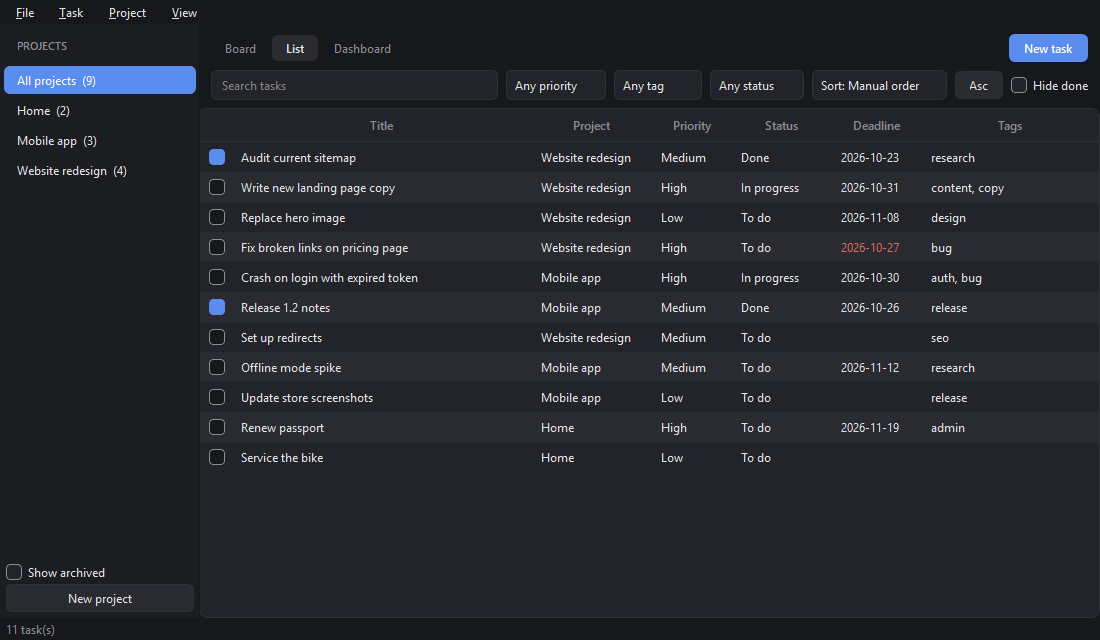
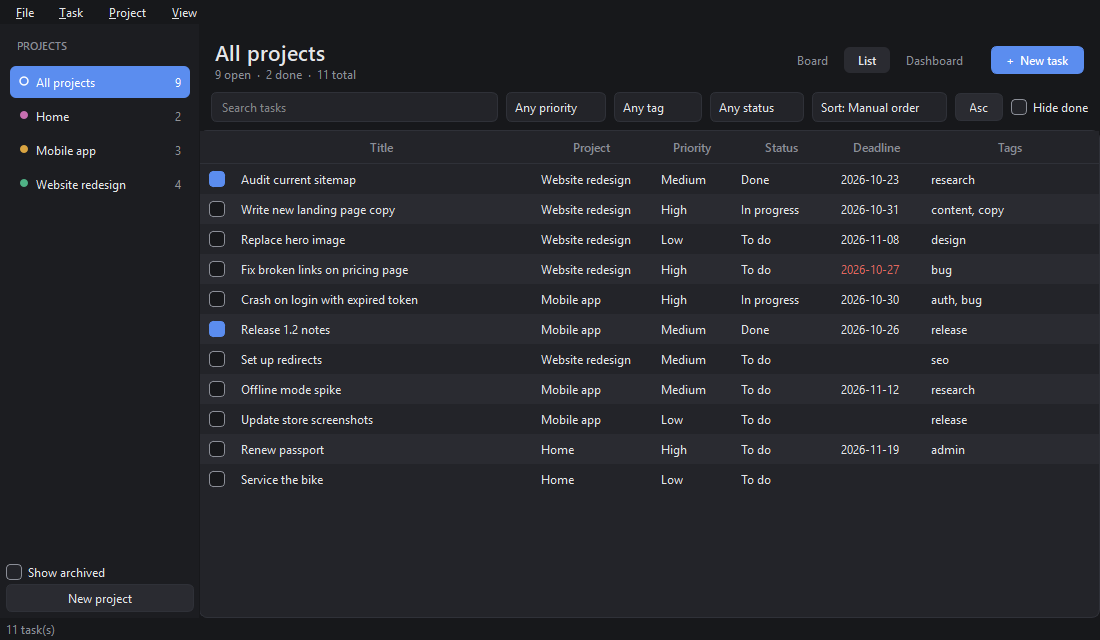
UI overhaul: page header, project sidebar with counts, pill-style cards, empty states

diff --git a/taskflow/ui/views.py b/taskflow/ui/views.py
@@ -1,7 +1,9 @@
 """Board, list and dashboard widgets. They display data and emit signals only."""
 from __future__ import annotations
 
-from PySide6.QtCore import QModelIndex, QPoint, QRect, QSize, Qt, Signal
+from datetime import date
+
+from PySide6.QtCore import QModelIndex, QPoint, QRect, QRectF, QSize, Qt, Signal
 from PySide6.QtGui import QColor, QFont, QPainter, QPen
 from PySide6.QtWidgets import (
     QAbstractItemView, QFrame, QGridLayout, QHBoxLayout, QHeaderView, QLabel, QListWidget,
@@ -13,27 +15,87 @@ from ..models import PRIORITIES, STATUS_LABELS, STATUSES, Task
 from ..service import Stats
 
 ID_ROLE = Qt.UserRole
-SUB_ROLE = Qt.UserRole + 1
 PRIORITY_ROLE = Qt.UserRole + 2
 OVERDUE_ROLE = Qt.UserRole + 3
+DUE_ROLE = Qt.UserRole + 4
+PROJECT_ROLE = Qt.UserRole + 5
+TAGS_ROLE = Qt.UserRole + 6
+ARCHIVED_ROLE = Qt.UserRole + 7
+COUNT_ROLE = Qt.UserRole + 8
+TOTAL_ROLE = Qt.UserRole + 9
+
+PROJECT_DOTS = ["#5b8def", "#4fb286", "#d9a441", "#c76fb0", "#e0675f", "#8a7fe0"]
 
 
-def task_subtitle(t: Task, show_project: bool) -> str:
-    parts = [PRIORITIES[t.priority]]
-    if t.deadline:
-        parts.append(("overdue " if t.is_overdue() else "due ") + t.deadline)
-    if show_project:
-        parts.append(t.project_name)
-    if t.tags:
-        parts.append("#" + " #".join(t.tags))
-    return "  ·  ".join(parts)
+def _tint(color: str, alpha: int) -> QColor:
+    c = QColor(color)
+    c.setAlpha(alpha)
+    return c
+
+
+def _short_date(iso: str) -> str:
+    try:
+        return date.fromisoformat(iso).strftime("%b %d").replace(" 0", " ")
+    except ValueError:
+        return iso
+
+
+class SidebarDelegate(QStyledItemDelegate):
+    colors: dict[str, str] = {}
+
+    def sizeHint(self, option, index: QModelIndex) -> QSize:
+        return QSize(option.rect.width(), 34)
+
+    def paint(self, painter: QPainter, option, index: QModelIndex) -> None:
+        c = self.colors
+        r = option.rect.adjusted(6, 1, -6, -1)
+        selected = bool(option.state & QStyle.State_Selected)
+        hovered = bool(option.state & QStyle.State_MouseOver)
+        archived = bool(index.data(ARCHIVED_ROLE))
+        painter.save()
+        painter.setRenderHint(QPainter.Antialiasing)
+        if selected or hovered:
+            painter.setPen(Qt.NoPen)
+            painter.setBrush(QColor(c["accent"] if selected else c["hover"]))
+            painter.drawRoundedRect(QRectF(r), 6, 6)
+        pid = index.data(ID_ROLE)
+        dot = QColor(c["muted"] if archived else PROJECT_DOTS[pid % len(PROJECT_DOTS)] if pid else c["muted"])
+        painter.setPen(Qt.NoPen)
+        painter.setBrush(dot if pid is not None else Qt.NoBrush)
+        if pid is None:  # "All projects": hollow ring
+            painter.setPen(QPen(QColor(c["accent_text"] if selected else c["muted"]), 1.5))
+        painter.drawEllipse(r.left() + 10, r.center().y() - 4, 8, 8)
+        fg = QColor(c["accent_text"] if selected else c["muted"] if archived else c["text"])
+        count = f"{index.data(COUNT_ROLE)}"
+        fm = painter.fontMetrics()
+        painter.setPen(_tint(fg.name(), 170 if selected else 150) if not selected else fg)
+        painter.drawText(QRect(r.right() - 40, r.top(), 32, r.height()),
+                         Qt.AlignRight | Qt.AlignVCenter, count)
+        painter.setPen(fg)
+        label = fm.elidedText(index.data(Qt.DisplayRole), Qt.ElideRight, r.width() - 80)
+        painter.drawText(QRect(r.left() + 26, r.top(), r.width() - 70, r.height()),
+                         Qt.AlignLeft | Qt.AlignVCenter, label)
+        painter.restore()
 
 
 class CardDelegate(QStyledItemDelegate):
     colors: dict[str, str] = {}
 
     def sizeHint(self, option, index: QModelIndex) -> QSize:
-        return QSize(option.rect.width(), 58)
+        return QSize(option.rect.width(), 74)
+
+    @staticmethod
+    def _pill(painter: QPainter, x: int, y: int, h: int, text: str, fg: QColor, bg: QColor,
+              limit: int) -> int:
+        w = painter.fontMetrics().horizontalAdvance(text) + 14
+        if x + w > limit:
+            return limit + 1  # no room: stop drawing further pills
+        painter.setPen(Qt.NoPen)
+        painter.setBrush(bg)
+        painter.drawRoundedRect(QRectF(x, y, w, h), h / 2, h / 2)
+        painter.setPen(fg)
+        painter.drawText(QRect(x, y, w, h), Qt.AlignCenter, text)
+        return x + w + 6
 
     def paint(self, painter: QPainter, option, index: QModelIndex) -> None:
         c = self.colors
@@ -44,27 +106,40 @@ class CardDelegate(QStyledItemDelegate):
         painter.setRenderHint(QPainter.Antialiasing)
         painter.setPen(QPen(QColor(c["accent"] if selected else c["border"])))
         painter.setBrush(QColor(c["hover"] if hovered and not selected else c["base"]))
-        painter.drawRoundedRect(r.adjusted(0, 0, -1, -1), 6, 6)
-        dot = {3: c["danger"], 2: c["warn"]}.get(index.data(PRIORITY_ROLE), c["low"])
-        painter.setPen(Qt.NoPen)
-        painter.setBrush(QColor(dot))
-        painter.drawEllipse(r.left() + 11, r.top() + 13, 8, 8)
-        text = QRect(r.left() + 26, r.top() + 8, r.width() - 36, r.height() - 14)
-        fm = painter.fontMetrics()
+        painter.drawRoundedRect(QRectF(r).adjusted(0.5, 0.5, -0.5, -0.5), 8, 8)
+
+        inner = r.adjusted(12, 10, -12, -10)
         title_font = painter.font()
         title_font.setWeight(QFont.DemiBold)
         painter.setFont(title_font)
         painter.setPen(QColor(c["text"]))
-        painter.drawText(text.left(), text.top() + fm.ascent(),
-                         painter.fontMetrics().elidedText(index.data(Qt.DisplayRole), Qt.ElideRight, text.width()))
+        fm = painter.fontMetrics()
+        painter.drawText(inner.left(), inner.top() + fm.ascent(),
+                         fm.elidedText(index.data(Qt.DisplayRole), Qt.ElideRight, inner.width()))
+
         small = painter.font()
         small.setWeight(QFont.Normal)
-        small.setPointSizeF(max(small.pointSizeF() - 1, 7))
+        small.setPointSizeF(max(small.pointSizeF() - 1.5, 7))
         painter.setFont(small)
-        painter.setPen(QColor(c["danger"] if index.data(OVERDUE_ROLE) else c["muted"]))
-        sm = painter.fontMetrics()
-        painter.drawText(text.left(), text.bottom() - sm.descent(),
-                         sm.elidedText(index.data(SUB_ROLE), Qt.ElideRight, text.width()))
+        pill_h = painter.fontMetrics().height() + 2
+        y = inner.bottom() - pill_h + 1
+        x, limit = inner.left(), inner.right()
+        priority = index.data(PRIORITY_ROLE)
+        color = {3: c["danger"], 2: c["warn"]}.get(priority, c["low"])
+        x = self._pill(painter, x, y, pill_h, PRIORITIES[priority], QColor(color), _tint(color, 38), limit)
+        due = index.data(DUE_ROLE)
+        if due:
+            overdue = bool(index.data(OVERDUE_ROLE))
+            text = ("Overdue " if overdue else "Due ") + _short_date(due)
+            fg = QColor(c["danger"] if overdue else c["muted"])
+            x = self._pill(painter, x, y, pill_h, text, fg, _tint(fg.name(), 30), limit)
+        project = index.data(PROJECT_ROLE)
+        if project:
+            x = self._pill(painter, x, y, pill_h, project, QColor(c["muted"]), _tint(c["muted"], 30), limit)
+        for tag in index.data(TAGS_ROLE) or []:
+            x = self._pill(painter, x, y, pill_h, "#" + tag, QColor(c["muted"]), _tint(c["muted"], 30), limit)
+            if x > limit:
+                break
         painter.restore()
 
 
@@ -83,6 +158,14 @@ class KanbanColumn(QListWidget):
         self.setDefaultDropAction(Qt.MoveAction)
         self.setVerticalScrollMode(QAbstractItemView.ScrollPerPixel)
         self.setSpacing(0)
+
+    def paintEvent(self, event) -> None:
+        super().paintEvent(event)
+        if self.count() == 0:
+            painter = QPainter(self.viewport())
+            painter.setPen(QColor(CardDelegate.colors.get("muted", "#888888")))
+            painter.drawText(self.viewport().rect(), Qt.AlignHCenter | Qt.AlignTop, "\n  No tasks")
+            painter.end()
 
     def dropEvent(self, event) -> None:
         source = event.source()
@@ -172,7 +255,9 @@ class BoardView(QWidget):
             counts[t.status] += 1
             item = QListWidgetItem(t.title)
             item.setData(ID_ROLE, t.id)
-            item.setData(SUB_ROLE, task_subtitle(t, show_project))
+            item.setData(DUE_ROLE, t.deadline)
+            item.setData(PROJECT_ROLE, t.project_name if show_project else None)
+            item.setData(TAGS_ROLE, t.tags)
             item.setData(PRIORITY_ROLE, t.priority)
             item.setData(OVERDUE_ROLE, t.is_overdue())
             item.setToolTip(t.description[:300] if t.description else t.title)
@@ -184,6 +269,7 @@ class BoardView(QWidget):
 
     def set_colors(self, colors: dict[str, str]) -> None:
         CardDelegate.colors = colors
+        SidebarDelegate.colors = colors
         for col in self.columns.values():
             col.viewport().update()
 
@@ -301,6 +387,8 @@ class DashboardView(QWidget):
             box.setSpacing(0)
             number = QLabel(str(value))
             number.setObjectName("statValue")
+            if caption == "Overdue" and value:
+                number.setStyleSheet(f"color: {CardDelegate.colors.get('danger', '#e0675f')};")
             small = QLabel(caption)
             small.setObjectName("muted")
             box.addWidget(number)

diff --git a/taskflow/ui/main_window.py b/taskflow/ui/main_window.py
@@ -23,7 +23,10 @@ from ..service import TaskFilter, TaskService
 from ..settings import Settings
 from .dialogs import PreferencesDialog, ProjectDialog, TaskDialog
 from .theme import apply_theme
-from .views import ID_ROLE, BoardView, DashboardView, TaskTable
+from .views import (
+    ARCHIVED_ROLE, COUNT_ROLE, ID_ROLE, TOTAL_ROLE, BoardView, DashboardView, SidebarDelegate,
+    TaskTable,
+)
 
 log = logging.getLogger(__name__)
 SORT_CHOICES =[("Manual order", "position"), ("Title", "title"), ("Priority", "priority"),
@@ -110,6 +113,8 @@ class MainWindow(QMainWindow):
     def _build_sidebar(self) -> None:
         self.sidebar = QListWidget()
         self.sidebar.setObjectName("sidebar")
+        self.sidebar.setItemDelegate(SidebarDelegate(self.sidebar))
+        self.sidebar.setMouseTracking(True)
         self.sidebar.setContextMenuPolicy(Qt.CustomContextMenu)
         self.sidebar.customContextMenuRequested.connect(self._project_menu)
         self.sidebar.currentItemChanged.connect(lambda *_: self.refresh())
@@ -142,8 +147,19 @@ class MainWindow(QMainWindow):
         bar = QWidget()
         bar.setObjectName("toolbar")
         h = QHBoxLayout(bar)
-        h.setContentsMargins(12, 10, 12, 4)
+        h.setContentsMargins(16, 14, 16, 6)
         h.setSpacing(2)
+        heading = QVBoxLayout()
+        heading.setSpacing(0)
+        self.title_label = QLabel("All projects")
+        self.title_label.setObjectName("pageTitle")
+        self.subtitle_label = QLabel("")
+        self.subtitle_label.setObjectName("muted")
+        heading.addWidget(self.title_label)
+        heading.addWidget(self.subtitle_label)
+        h.addLayout(heading)
+        h.addSpacing(24)
+        h.addStretch(1)
         self.view_buttons: dict[str, QPushButton] = {}
         group = QButtonGroup(self)
         for name in VIEWS:
@@ -155,8 +171,8 @@ class MainWindow(QMainWindow):
             group.addButton(btn)
             h.addWidget(btn)
             self.view_buttons[name] = btn
-        h.addStretch(1)
-        new = QPushButton("New task")
+        h.addSpacing(12)
+        new = QPushButton("+  New task")
         new.setObjectName("primary")
         new.setCursor(Qt.PointingHandCursor)
         new.clicked.connect(lambda: self.new_task())
@@ -366,17 +382,18 @@ class MainWindow(QMainWindow):
         projects = self.service.projects(include_archived=self.show_archived.isChecked())
         items = []
         for p in projects:
-            label = f"{p.name}  ({p.open_tasks})" + ("  archived" if p.archived else "")
-            item = QListWidgetItem(label)
+            item = QListWidgetItem(p.name + ("  (archived)" if p.archived else ""))
             item.setData(ID_ROLE, p.id)
-            item.setData(Qt.UserRole + 1, p.archived)
-            if p.archived:
-                item.setForeground(Qt.gray)
-            else:
+            item.setData(ARCHIVED_ROLE, p.archived)
+            item.setData(COUNT_ROLE, p.open_tasks)
+            item.setData(TOTAL_ROLE, p.total_tasks)
+            if not p.archived:
                 total_open += p.open_tasks
             items.append(item)
-        everything = QListWidgetItem(f"All projects  ({total_open})")
+        everything = QListWidgetItem("All projects")
         everything.setData(ID_ROLE, None)
+        everything.setData(COUNT_ROLE, total_open)
+        everything.setData(TOTAL_ROLE, sum(p.total_tasks for p in projects if not p.archived))
         self.sidebar.addItem(everything)
         for item in items:
             self.sidebar.addItem(item)
@@ -414,7 +431,10 @@ class MainWindow(QMainWindow):
         if self._building or self.sidebar.currentItem() is None:
             return
         item = self.sidebar.currentItem()
-        archived = bool(item.data(Qt.UserRole + 1))
+        archived = bool(item.data(ARCHIVED_ROLE))
+        self.title_label.setText(item.text())
+        open_n, total_n = item.data(COUNT_ROLE) or 0, item.data(TOTAL_ROLE) or 0
+        self.subtitle_label.setText(f"{open_n} open  ·  {total_n - open_n} done  ·  {total_n} total")
         for act in (self.edit_project_act, self.archive_act, self.delete_project_act):
             act.setEnabled(item.data(ID_ROLE) is not None)
         self.archive_act.setText("Unarchive" if archived else "&Archive")
@@ -454,7 +474,7 @@ class MainWindow(QMainWindow):
         pid = self.current_project_id()
         if pid is None:
             return
-        archived = bool(self.sidebar.currentItem().data(Qt.UserRole + 1))
+        archived = bool(self.sidebar.currentItem().data(ARCHIVED_ROLE))
         self._guard(lambda: self.service.set_archived(pid, not archived))
 
     def delete_project(self) -> None:

diff --git a/taskflow/ui/theme.py b/taskflow/ui/theme.py
@@ -28,7 +28,8 @@ def apply_theme(app: QApplication, name: str) -> dict[str, str]:
     QLabel {{ background: transparent; }}
     QLabel#muted {{ color: {c['muted']}; }}
     QLabel#section {{ color: {c['muted']}; font-size: 8pt; font-weight: 600; padding: 2px 0; }}
-    QLabel#statValue {{ font-size: 18pt; font-weight: 600; }}
+    QLabel#statValue {{ font-size: 20pt; font-weight: 600; }}
+    QLabel#pageTitle {{ font-size: 16pt; font-weight: 600; }}
     QFrame#tile {{ background: {c['base']}; border: 1px solid {c['border']}; border-radius: 8px; }}
     QFrame#tile QLabel {{ background: transparent; }}
     QWidget#sidebarBox {{ background: {c['sidebar']}; }}
